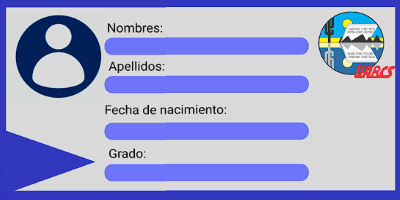
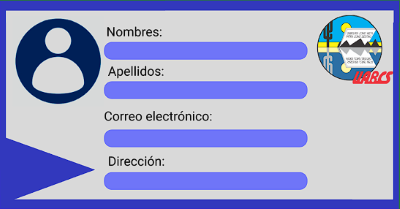
Modulo crear credencial completo

diff --git a/src/Vista/Ventana.java b/src/Vista/Ventana.java
@@ -9,6 +9,7 @@ import java.io.File;
 import java.io.FileNotFoundException;
 import java.io.FileOutputStream;
 import java.io.IOException;
+import java.net.MalformedURLException;
 import java.nio.file.Files;
 import java.sql.Connection;
 import java.sql.ResultSet;
@@ -34,9 +35,15 @@ import javax.swing.filechooser.FileNameExtensionFilter;
 import javax.swing.table.DefaultTableModel;
 import javax.swing.table.TableCellRenderer;
 
+import com.itextpdf.io.image.ImageDataFactory;
 import com.itextpdf.kernel.colors.DeviceRgb;
+import com.itextpdf.kernel.font.PdfFont;
+import com.itextpdf.kernel.font.PdfFontFactory;
 import com.itextpdf.kernel.geom.Path;
+import com.itextpdf.kernel.pdf.PdfPage;
 import com.itextpdf.kernel.pdf.PdfWriter;
+import com.itextpdf.kernel.pdf.canvas.PdfCanvas;
+import com.itextpdf.kernel.pdf.layer.PdfLayer;
 import com.itextpdf.layout.borders.Border;
 import com.itextpdf.layout.element.Cell;
 import com.itextpdf.layout.element.Paragraph;
@@ -2791,13 +2798,7 @@ public class Ventana extends JFrame{
 		            PdfWriter writer = new PdfWriter(new FileOutputStream("archivo.pdf"));
 		            com.itextpdf.kernel.pdf.PdfDocument pdfDoc = new com.itextpdf.kernel.pdf.PdfDocument(writer);
 		            com.itextpdf.layout.Document document = new com.itextpdf.layout.Document(pdfDoc);
-
-		            // Agregar las imágenes al documento
-		            /*com.itextpdf.layout.element.Image imagen1 = new com.itextpdf.layout.element.Image(ImageDataFactory.create("img/credencialF.png"));
-		            com.itextpdf.layout.element.Image imagen2 = new com.itextpdf.layout.element.Image(ImageDataFactory.create("img/credencialT.png"));
-		            document.add(imagen1);
-		            document.add(imagen2);*/
-
+		            
 		            //Crear txt
 		            float col = 280f;
 		            float anchoColumna[] = {col,col};
@@ -3372,6 +3373,18 @@ public class Ventana extends JFrame{
 		fondo.add(fondo2);
 		fondo2.setLayout(null);
 		
+		JTextField txtID = new JTextField("Ingresa el ID de un Alumno");
+		txtID.setBackground(new Color(0, 128, 192));
+		txtID.setBounds(40, 5, 200, 20);
+		fondo2.add(txtID);
+		txtID.setColumns(10);
+		
+		JTextField datos_nombre = new JTextField();
+        JTextField datos_apePaterno = new JTextField();			
+        JTextField datos_apeMaterno = new JTextField();
+        JTextField datos_correo = new JTextField();
+        JTextField datos_direccion = new JTextField();
+		
 		
 		JButton Volver = new JButton("Volver");
 		Volver.addActionListener(new ActionListener() {
@@ -3392,9 +3405,101 @@ public class Ventana extends JFrame{
 		JButton Descargar = new JButton("Descargar");
 		Descargar.addActionListener(new ActionListener() {
 		    public void actionPerformed(ActionEvent e) {
-	
+		    	idConsultar = Integer.parseInt(txtID.getText());
+				BD bd = new BD();
+			    try {
+			        Connection cn = bd.Conectar();
+			        Statement stm = cn.createStatement();
+			        ResultSet rs = stm.executeQuery("SELECT * FROM alumnosbd");
+
+			        
+			        
+			        while (rs.next()) {
+			        	
+			        	int id = rs.getInt("idAlumnos");
+			           
+			        	if(idConsultar == id) {
+			        		String nombre = rs.getString("Nombre");
+			        		String correo = rs.getString("Correo");
+				            String apellidoP = rs.getString("Apellido Paterno");
+				            String apellidoM = rs.getString("Apellido Materno");
+				            String direccion = rs.getString("Direccion");
+				            
+				           
+				            datos_nombre.setText(nombre);
+				            datos_apePaterno.setText(apellidoP);
+				            datos_apeMaterno.setText(apellidoM);
+				            datos_correo.setText(correo);
+				            datos_direccion.setText(direccion);		  
+				            cambio++;
+			        	}
+			        }
+
+			        rs.close();
+			        stm.close();
+			        cn.close();
+			    } catch (SQLException e1) {
+			        e1.printStackTrace();
+			    }
+			    
+			    if(cambio==0) {
+			    	JOptionPane.showMessageDialog(null, "ID de alumno invalido. Favor de intentar denuevo");
+			    }
+			    cambio=0;
+				
+		        try {
+		            // Crear el archivo PDF
+		            PdfWriter writer = new PdfWriter(new FileOutputStream("credencialAlumno.pdf"));
+		            com.itextpdf.kernel.pdf.PdfDocument pdfDoc = new com.itextpdf.kernel.pdf.PdfDocument(writer);
+		            com.itextpdf.layout.Document document = new com.itextpdf.layout.Document(pdfDoc);
+
+		            
+		            // Agregar las imágenes al documento
+		            com.itextpdf.layout.element.Image imagen1 = new com.itextpdf.layout.element.Image(ImageDataFactory.create("img/credencialF.png"));
+		            com.itextpdf.layout.element.Image imagen2 = new com.itextpdf.layout.element.Image(ImageDataFactory.create("img/credencialT.png"));
+		            document.add(imagen1);
+		            document.add(imagen2);
+		            
+		            // Crear una capa para el texto
+		            PdfPage page = pdfDoc.addNewPage();
+		            com.itextpdf.kernel.pdf.layer.PdfLayer textLayer = new PdfLayer("Text Layer", pdfDoc);	  
+		            PdfCanvas canvas = new PdfCanvas(page);
+		            canvas.beginLayer(textLayer);
+		            canvas.endLayer();
+
+		            
+		            // Agregar el texto a la capa de texto
+		            PdfCanvas textCanvas = new PdfCanvas(pdfDoc.getPage(1));
+		            PdfFont defaultFont = PdfFontFactory.createFont();
+		            textCanvas.beginText().setFontAndSize(defaultFont, 12).moveText(145, 750).showText(datos_nombre.getText()).endText();
+		            textCanvas.beginText().setFontAndSize(defaultFont, 12).moveText(145, 710).showText(datos_apePaterno.getText()+" "+datos_apeMaterno.getText()).endText();
+		            textCanvas.beginText().setFontAndSize(defaultFont, 12).moveText(145, 662).showText(datos_correo.getText()).endText();
+		            textCanvas.beginText().setFontAndSize(defaultFont, 12).moveText(145, 621).showText(datos_direccion.getText()).endText();
+		            textCanvas.beginText().setFontAndSize(defaultFont, 14).moveText(345, 502).showText("2023").endText();
+		            textCanvas.beginText().setFontAndSize(defaultFont, 14).moveText(345, 474).showText("2024").endText();
+		            textLayer.setOn(true);
+
+		          
+
+		            // Cerrar el documento
+		            document.close();
+
+		            JOptionPane.showMessageDialog(null, "El archivo PDF se ha generado correctamente.", "Generar PDF", JOptionPane.INFORMATION_MESSAGE);
+		        } catch (FileNotFoundException ex) {
+		            ex.printStackTrace();
+		            JOptionPane.showMessageDialog(null, "Error al generar el archivo PDF.", "Generar PDF", JOptionPane.ERROR_MESSAGE);
+		        } catch (MalformedURLException e1) {
+		            e1.printStackTrace();
+		        } catch (IOException e1) {
+		            e1.printStackTrace();
+		        }
 		    }
 		});
+
+
+
+
+
 		Descargar.setForeground(new Color(255, 255, 255));
 		Descargar.setBackground(new Color(0, 128, 255));
 		Descargar.setBounds(342, 514, 95, 36);
@@ -3403,7 +3508,7 @@ public class Ventana extends JFrame{
 		JLabel imagen = new JLabel("");
 		ImageIcon imageIcon = new ImageIcon(new ImageIcon("img/credencialF.png").getImage().getScaledInstance(400, 200, Image.SCALE_DEFAULT));
 		imagen.setIcon(imageIcon);
-		imagen.setBounds(40, 10, 400, 200);
+		imagen.setBounds(40, 30, 400, 200);
 		fondo2.add(imagen);
 		
 		JLabel imagen2 = new JLabel("");
